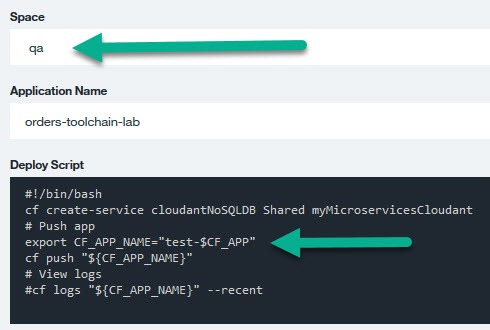
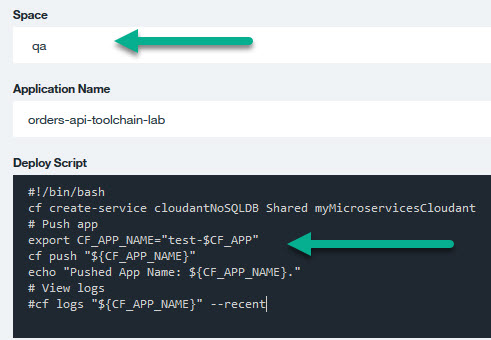
Signed-off-by: palistra <palistra@us.ibm.com>

diff --git a/Lab-3-UI-Pipeline.md b/Lab-3-UI-Pipeline.md
@@ -12,7 +12,7 @@ This lab adds the UI application to the Toolchain.  You may want to refer to the
 
 ## Task 1: Go to devops-toolchain
 <ol compact>
-<li>If you are not on <b>devops-toolchain-lab</b> Tool Integration.
+<li>If you are not on <b>devops-toolchain-lab</b> Toolchain:
 <br>
 <img src="screenshots/DevOpsToolchainLab.jpg" alt="DevOpsToolchainLab">
 <p>perform the following steps:
@@ -35,7 +35,7 @@ The code for the Catalog microservice already exists in a GitHub repository (htt
 <li>Enter "https://github.com/open-toolchain/Microservices_UI" for the Source repository URL.
 <li>Ensure the 'Enable GitHub Issues' checkbox is selected.
 <li>Click <b>Create Integration</b>.
-<li>The ui-toolchain-lab tool integrations is displayed.
+<li>The <b>devops-toolchain-lab</b> Toochain is displayed.
 </ol>
 
 ## Task 3: Add UI Delivery Pipeline
@@ -53,11 +53,11 @@ Now that you have a Git repository clone of the code, we will add a Delivery Pip
 <li>Now to configure the ui-toolchain-lab delivery pipeline. Four stages will be added: Build, Dev, Test and Prod.
 <ul>
 <li>The <b>Build</b> stage has one job, performing the initial build of the code from the GitHub Repository.
-<li>The <b>Dev</b> stage has two jobs, taking the output from the Build stage and deploying on Bluemix into the <i>dev</i> space, then performing automated functional tests.
+<li>The <b>Dev</b> stage has one job, taking the output from the Build stage and deploying on Bluemix into the <i>dev</i> space.
 <li>The <b>Test</b> stage has two jobs, taking the output from the Dev stage and deploying on Bluemix into the <i>qa</i> space, then performing automated tests.
 <li>The <b>Prod</b> stage has one job, taking the output from the Test stage and deploying on Bluemix into the <i>prod</i> space.  This stage will also check to see there is an earlier instance of this application running and if it is, keep it around in case the deploy of the new version of the app has problems.  If the new version deploys successfully, the old version is deleted.  If not, the new version is deleted and the old version continues to run.
 </ul>
-<p>Click on the <b>Delivery Pipeline</b> tile for the catalog-toolchain-lab delivery pipeline.
+<p>Click on the <b>Delivery Pipeline</b> tile for the ui-toolchain-lab delivery pipeline.
 <li>Add the <b>Build</b> stage and jobs.
 <ol>
     <li>Click on <b>ADD STAGE</b>.
@@ -82,7 +82,7 @@ Now that you have a Git repository clone of the code, we will add a Delivery Pip
     <p>The JOBS section shows the Build was successful.
     <p>The <b>Build</b> stage has been successfully added and executed.
 </ol>
-<li>Add the <b>Dev</b> stage and jobs (remember, two jobs, taking the output from the Build stage and deploying on Bluemix into the <i>dev</i> space, then performing automated functional tests).
+<li>Add the <b>Dev</b> stage and jobs (remember, one job, taking the output from the Build stage and deploying on Bluemix into the <i>dev</i> space).
 <ol>
     <li>Click on <b>ADD STAGE</b>.
     <li>On the <b>INPUT</b> tab, enter "Dev" for Stage Name. Note that:
@@ -99,47 +99,18 @@ Now that you have a Git repository clone of the code, we will add a Delivery Pip
     <li>'Deployer Type' is set to "Cloud Foundry" (other options are available on the pull-down).
     <li>'Target' is set to "US South - https://api.ng/bluemix.net" as this is where the code will be deployed.
     <li>'Space' is set to "dev" (or Create a new space called <b>dev</b> if not on the dropdown).
-    <li>Type the following into the "Deploy Script" section. This will create and deploy the cloudantNoSQLDB service, update the APP_URL environment variable for use by the functional test job and deploy the Catalog application.
+    <li>Type the following into the "Deploy Script" section. This will deploy the UI application.
     <pre>
     #!/bin/bash
-    cf create-service cloudantNoSQLDB Shared myMicroservicesCloudant
     # Push app
     export CF_APP_NAME="dev-$CF_APP"
     cf push "${CF_APP_NAME}"
-    export APP_URL=http://$(cf app $CF_APP_NAME | grep urls: | awk '{print $2}')
     # View logs
     #cf logs "${CF_APP_NAME}" --recent
     </pre>
     <li>'Run Conditions' is set to "Stop running this stage if this job fails" to prevent any other jobs in this stage from running and to make the stage failed is this Job fails.
     </ul>
-    <li>The bash script just entered into the Deploy Script references both the <i>CF_APP_NAME</i> and <i>APP_URL</i> environment variable ($CF_APP is provided by default).  These need to be added to the environment variables as Text.  Click the <b>ENVIRONMENT PROPERTIES</b> tab.
-    <li>Click <b>ADD PROPERTY</b> and select <b>Text Property</b>.
-    <li>Enter "CF_APP_NAME" as the 'Name'.  Do not enter anything for the 'Value'.
-    <li>Click <b>ADD PROPERTY</b> and select <b>Text Property</b>.
-    <li>Enter "APP_URL" as the 'Name'.  Do not enter anything for the 'Value'.
-
-
-    <li>Click the <b>Jobs</b> tab.
-    <li>Click <b>ADD JOB</b>.
-    <li>Click the <b>+</b> and select <b>Test</b> for the JOB TYPE.
-    <li>On the Job configuration panel, note that:
-    <ul compact>
-    <li>Job name <b>Functional Tests</b>.
-    <li>'Tester Type' is <b<Simple</b>.
-    Enter the following code to the <b>Test Command</b>.
-    <pre>    
-      #!/bin/bash
-      export CATALOG_API_TEST_SERVER=$APP_URL
-      GRUNTFILE="tests/Gruntfile.js"
-      if [ -f $GRUNTFILE ]; then
-        npm install -g npm@3.7.2 ### work around default npm 2.1.1 instability
-        npm install
-        grunt dev-fvt --no-color -f --gruntfile $GRUNTFILE --base .
-    else
-      echo "$GRUNTFILE not found."
-    fi    
-    </pre>
-    </ul>
+    <li>Add the CF_APP_NAME environment variable.
     <li>Click <b>Save</b> to save the <b>Dev</b> stage.
     <li>The <b>Delivery Pipeline</b> displays the <b>Build</b> and <b>Dev</b> stages.  The <b>Dev</b> stage has not been run. Click on the <b>Run Stage</b> icon to run the <b>Dev</b> stage to deploy Catalog application and run the functional tests.
     <p>The JOBS section shows the Stage was successful. Click on "View logs and history" to the Job log.
@@ -160,6 +131,7 @@ Now that you have a Git repository clone of the code, we will add a Delivery Pip
       # invoke tests here
       echo "Testing of App Name ${CF_APP_NAME} was successful"      
     </pre>
+    <p>If we had a SauceLabs account, this is a place where we could run some automated UI tests.
     <li>Click <b>Save</b> to save the <b>Test</b> stage.
     <li>The <b>Delivery Pipeline</b> displays the <b>Build</b> and <b>Dev</b> stages.  The <b>Test</b> stage has not been run.
     Click on the <b>Run Stage</b> icon to run the <b>Test</b> stage and deploy the order API to the <i>test</i> space.
@@ -175,7 +147,7 @@ Now that you have a Git repository clone of the code, we will add a Delivery Pip
 <li>Ensure the <b>Delivery Pipeline</b> is displayed.
     <li>On the <b>Dev</b> stage, click the <b>Stage Configuration</b> and select "Clone Stage".
     <li>Rename the cloned stage from <b>Dev [copy]</b> to <b>Prod</b>.
-    <li>On the <b>Jobs</b> tab, change the space from <b>dev</b> to <b>prod</b> (or Create a new space called <b>prod</b> if not on the dropdown) and change the deploy script to the following:
+    <li>On the <b>Jobs</b> tab, change the Job name to 'Blue/Green Deploy', change the space from <b>dev</b> to <b>prod</b> (or Create a new space called <b>prod</b> if not on the dropdown) and change the deploy script to the following:
     <pre>
       #!/bin/bash
       cf create-service cloudantNoSQLDB Shared myMicroservicesCloudant

diff --git a/Lab-2-Catalog-Pipeline.md b/Lab-2-Catalog-Pipeline.md
@@ -12,7 +12,7 @@ This lab adds the Catalog application to the Toolchain.  And now that you have e
 
 ## Task 1: Go to devops-toolchain
 <ol compact>
-<li>If you are not on <b>devops-toolchain-lab</b> Tool Integration.
+<li>If you are not on <b>devops-toolchain-lab</b> Toolchain:
 <br>
 <img src="screenshots/DevOpsToolchainLab.jpg" alt="DevOpsToolchainLab">
 <p>perform the following steps:
@@ -33,9 +33,7 @@ The code for the Catalog microservice already exists in a GitHub repository (htt
 <li>Enter "https://github.com/<i>githubuserid</i>/catalog-api-toolchain-lab.git" for the New Repository Name.
 <br>where <i>githubuserid</i> is your GitHub userid.
 <li>Enter "https://github.com/open-toolchain/Microservices_CatalogAPI" for the Source repository URL.
-<li>Ensure the 'Enable GitHub Issues' checkbox is selected.
 <li>Click <b>Create Integration</b>.
-<li>The catalog-toolchain-lab tool integrations is displayed.
 </ol>
 
 ## Task 3: Add Catalog Delivery Pipeline
@@ -99,6 +97,7 @@ Now that you have a Git repository clone of the code, we will add a Delivery Pip
     <li>'Deployer Type' is set to "Cloud Foundry" (other options are available on the pull-down).
     <li>'Target' is set to "US South - https://api.ng/bluemix.net" as this is where the code will be deployed.
     <li>'Space' is set to "dev" (or Create a new space called <b>dev</b> if not on the dropdown).
+    <li>'Application Name' is "catalog-api-toolchain-lab".
     <li>Type the following into the "Deploy Script" section. This will create and deploy the cloudantNoSQLDB service, update the APP_URL environment variable for use by the functional test job and deploy the Catalog application.
     <pre>
     #!/bin/bash
@@ -172,7 +171,7 @@ Now that you have a Git repository clone of the code, we will add a Delivery Pip
 <li>Ensure the <b>Delivery Pipeline</b> is displayed.
     <li>On the <b>Dev</b> stage, click the <b>Stage Configuration</b> and select "Clone Stage".
     <li>Rename the cloned stage from <b>Dev [copy]</b> to <b>Prod</b>.
-    <li>On the <b>Jobs</b> tab, change the space from <b>dev</b> to <b>prod</b> (or Create a new space called <b>prod</b> if not on the dropdown) and change the deploy script to the following:
+    <li>On the <b>Jobs</b> tab, change the Job name to 'Blue/Green Deploy', change the space from <b>dev</b> to <b>prod</b> (or Create a new space called <b>prod</b> if not on the dropdown) and change the deploy script to the following:
     <pre>
       #!/bin/bash
       cf create-service cloudantNoSQLDB Shared myMicroservicesCloudant

diff --git a/Lab-1-Order-Pipeline.md b/Lab-1-Order-Pipeline.md
@@ -136,6 +136,7 @@ Now that you have a Git repository clone of the code, we will add a Delivery Pip
     <li>'Deployer Type' is set to "Cloud Foundry" (other options are available on the pull-down).
     <li>'Target' is set to "US South - https://api.ng/bluemix.net" as this is where the code will be deployed.
     <li>'Space' is set to "dev" (or Create a new space called <b>dev</b> if not on the dropdown).
+    <li>'Application Name' is "orders-api-toolchain-lab".
     <li>Type the following into the "Deploy Script" section. This will create and deploy the cloudantNoSQLDB service:
     <code>cf create-service cloudantNoSQLDB Shared myMicroservicesCloudant</code>
     then deploy the application:
@@ -212,7 +213,7 @@ Now that you have a Git repository clone of the code, we will add a Delivery Pip
 <li>Ensure the <b>Delivery Pipeline</b> is displayed.
 <li>On the <b>Dev</b> stage, click the <b>Stage Configuration</b> and select "Clone Stage".
 <li>Rename the cloned stage from <b>Dev [copy]</b> to <b>Prod</b>.
-<li>On the <b>Jobs</b> tab, change the space from <b>dev</b> to <b>prod</b> (or Create a new space called <b>prod</b> if not on the dropdown) and change the deploy script to the following:
+<li>On the <b>Jobs</b> tab, change the Job name to 'Blue/Green Deploy', change the space from <b>dev</b> to <b>prod</b> (or Create a new space called <b>prod</b> if not on the dropdown) and change the deploy script to the following:
     <pre>
       #!/bin/bash
       cf create-service cloudantNoSQLDB Shared myMicroservicesCloudant
